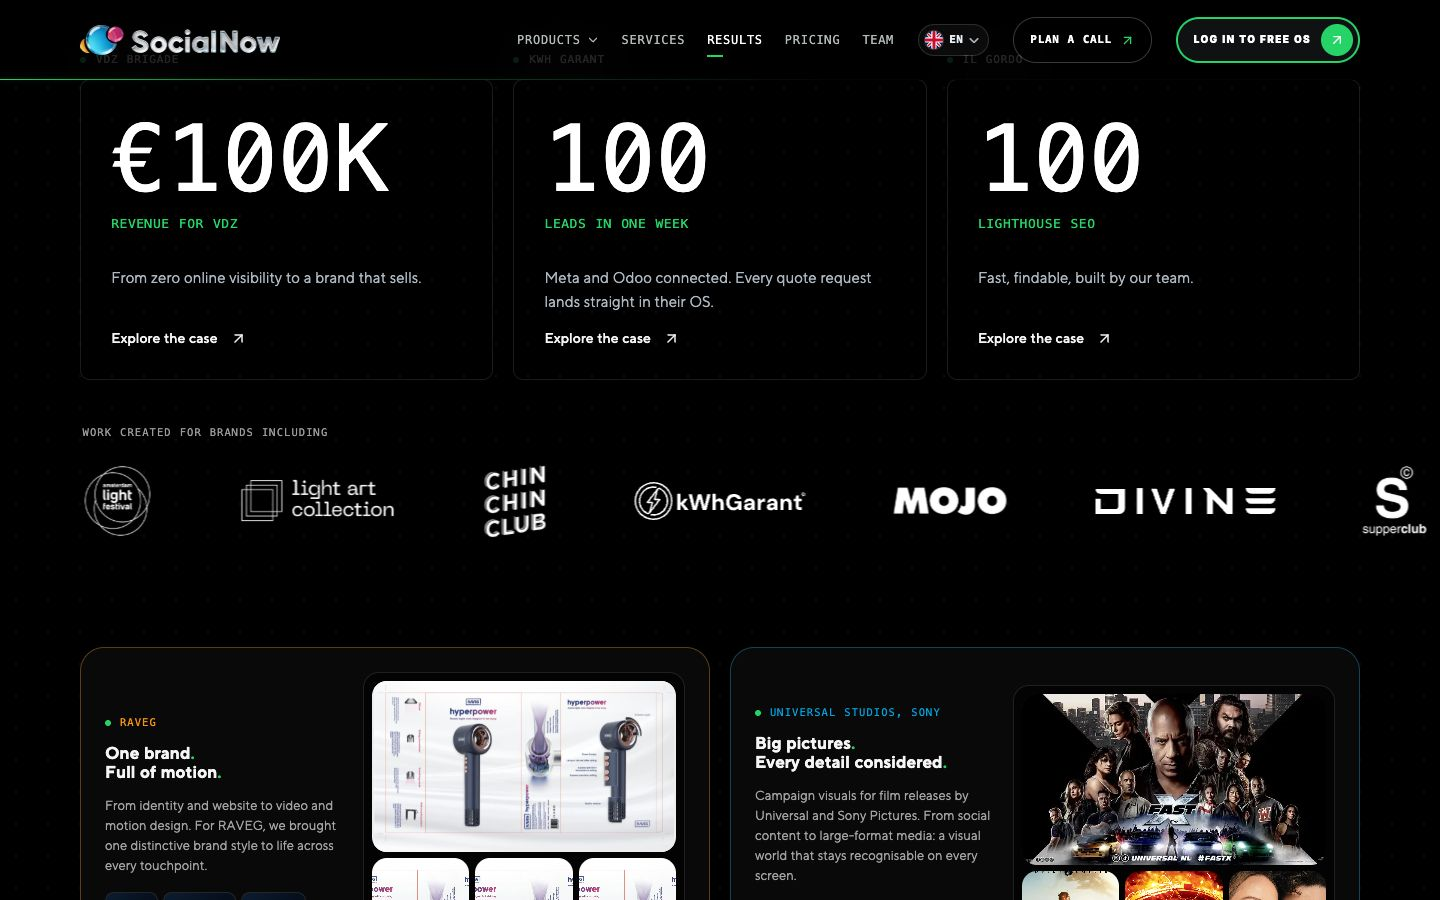
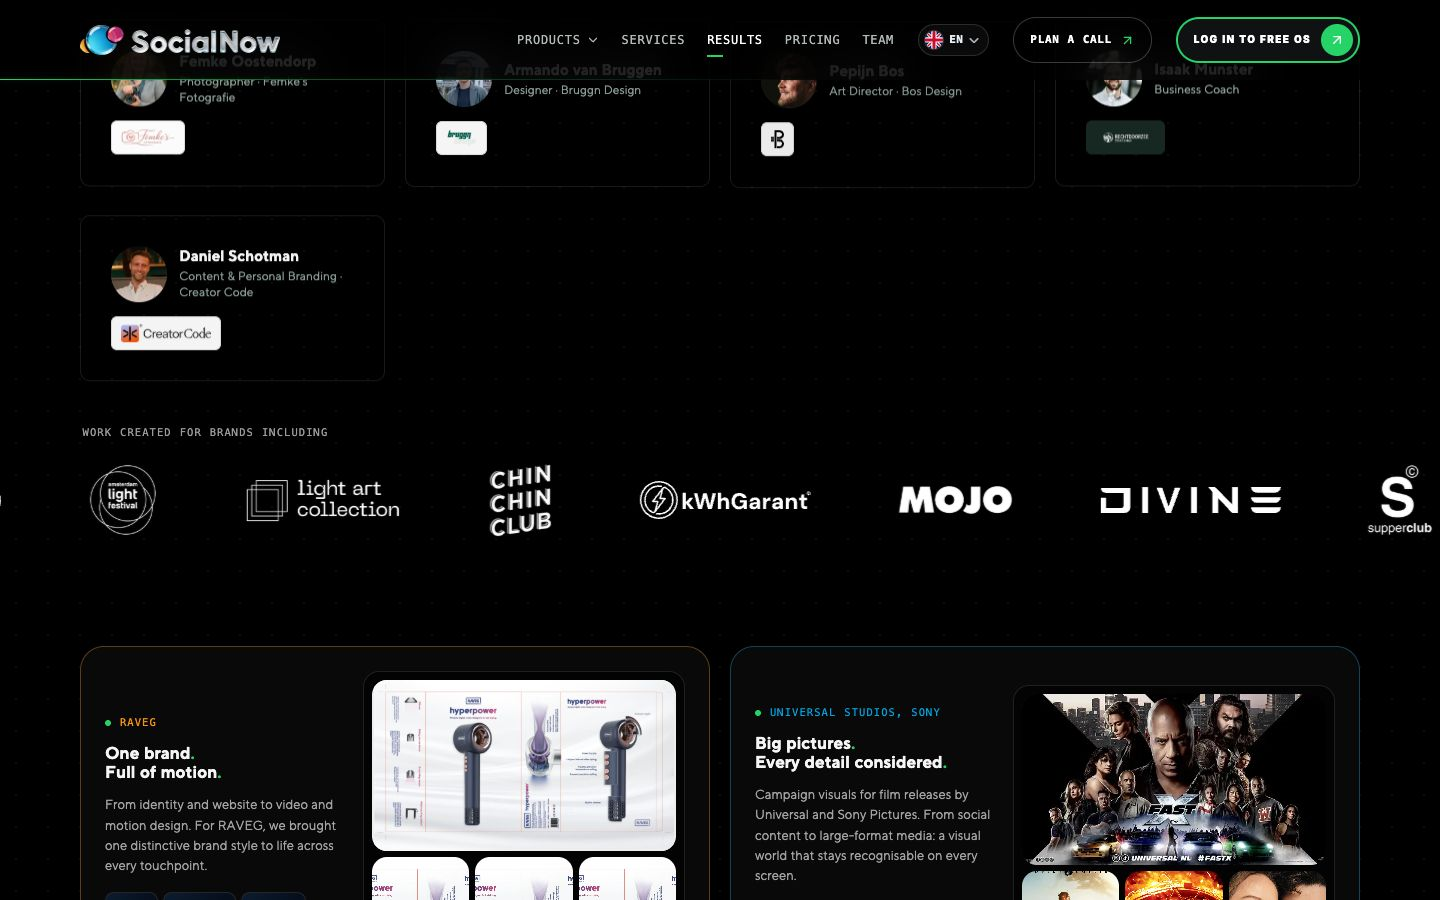
Resultaten: trackrecord van het team onder de cijfers
Marinus: "Neem daarbij ook andere resultaten van mijn team mee." Er staan geen
meetbare resultaten per teamlid in de repo, wel hun trackrecord: partnerReferences
in content.ts en de door Marinus vastgelegde trackrecords (feat/trackrecords-20261007).
Zeventien teamleden met foto, rol en merken; zes logo's van die tak overgenomen.
Wie geen bron heeft, staat er niet in.

diff --git a/proposal/TeamTrackrecord.tsx b/proposal/TeamTrackrecord.tsx
@@ -1,0 +1,78 @@
+import React from "react";
+import { Bento, Tegel } from "./Bento";
+import { people } from "./content";
+import { klein } from "./licht";
+
+// 18 oktober 2026 (Marinus): "Neem daarbij ook andere resultaten van mijn team mee." Er staan geen meetbare resultaten per
+// teamlid in de repo, wel hun trackrecord: de merken waar ze voor werkten en hun eigen bedrijven. Bronnen, letterlijk:
+// partnerReferences in content.ts en de door Marinus vastgelegde trackrecords (tak feat/trackrecords-20261007,
+// docs/team-trackrecords-2026-10-07.md), Daniel via zijn rol in content.ts. Wie daar geen bron heeft, staat er niet in.
+// Daarom heet de rij Trackrecord en niet Resultaten: een bedrijfsreferentie is geen klantresultaat.
+type Merk = { naam: string; logo?: string; donker?: boolean; woordmerk?: string };
+const M = {
+  az: { naam: "AZ", logo: "/images/merken/AZ-LOGO-KLEUR.svg" },
+  universal: { naam: "Universal", logo: "/images/merken/UNDER-ARMOUR-LOGO-1.webp", donker: true },
+  alf: { naam: "Amsterdam Light Festival", logo: "/images/merken/AMSTERDAM-LIGHT-FESTIVAL-LOGO.webp", donker: true },
+  axipoint: { naam: "Axipoint", logo: "/images/merken/axipoint.png" },
+  socialytix: { naam: "Socialytix", logo: "/images/merken/socialytix.png", donker: true },
+  byCarmel: { naam: "By Carmel", logo: "/images/merken/by-carmel.png" },
+  studioSluis: { naam: "Studio Sluis" },
+  goodlife: { naam: "Goodlife Marketing", logo: "/images/merken/goodlife-marketing.png", donker: true },
+  stramark: { naam: "Stramark" },
+  oliverJames: { naam: "Oliver James" },
+  attesso: { naam: "Attesso", woordmerk: "~/attesso" },
+  bytechat: { naam: "ByteChat", logo: "/images/merken/bytechat.svg" },
+  bytevision: { naam: "ByteVision", logo: "/images/merken/bytevision.png" },
+  komen: { naam: "Komen Consultancy", logo: "/images/merken/komen-consultancy.webp" },
+  abnAmro: { naam: "ABN AMRO", logo: "/images/merken/abn-amro.svg" },
+  fincer: { naam: "Fincer", logo: "/images/merken/fincer.png" },
+  femke: { naam: "Femke’s Fotografie", logo: "/images/merken/femkes-fotografie.webp" },
+  bruggn: { naam: "Bruggn Design", logo: "/images/merken/bruggn-design.png" },
+  rechtdoorzee: { naam: "Rechtdoorzee Coaching", logo: "/images/merken/rechtdoorzee.webp", donker: true },
+  pepijn: { naam: "Pepijn Bos", logo: "/images/merken/pepijn-bos.svg" },
+  creatorCode: { naam: "Creator Code", logo: "/images/merken/creator-code.webp" },
+} satisfies Record<string, Merk>;
+
+const TRACKRECORD: Array<[string, Merk[]]> = [
+  ["Marinus Bergsma", [M.az, M.universal, M.alf]],
+  ["Jos Hollenberg", [M.axipoint]],
+  ["Sergio Jovovic", [M.socialytix]],
+  ["Nick van Keulen", [M.goodlife, M.stramark]],
+  ["Steven Goudsblom", [M.abnAmro, M.fincer]],
+  ["Elian Coellar", [M.oliverJames]],
+  ["Sid van Kalken", [M.attesso]],
+  ["Douwe Kramer", [M.attesso, M.bytechat, M.bytevision]],
+  ["Steef Komen", [M.komen]],
+  ["Michelle Yang", [M.komen]],
+  ["Carmel Boon", [M.byCarmel]],
+  ["Sam van der Sluis", [M.studioSluis]],
+  ["Femke Oostendorp", [M.femke]],
+  ["Armando van Bruggen", [M.bruggn]],
+  ["Pepijn Bos", [M.pepijn]],
+  ["Isaak Munster", [M.rechtdoorzee]],
+  ["Daniel Schotman", [M.creatorCode]],
+];
+
+function Merkteken({ merk }: { merk: Merk }) {
+  return <li className={merk.donker ? "is-donker" : undefined}>
+    {merk.logo ? <img src={merk.logo} alt={merk.naam} width="110" height="24" loading="lazy" decoding="async" />
+      : <span className={merk.woordmerk ? "is-woordmerk" : undefined}>{merk.woordmerk ?? merk.naam}</span>}
+  </li>;
+}
+
+export default function TeamTrackrecord() {
+  const rij = TRACKRECORD.flatMap(([naam, merken]) => { const p = people.find((x) => x.name === naam); return p ? [{ p, merken }] : []; });
+  return (
+    <Bento id="team-trackrecord" className="sn-team-trackrecord" label="Trackrecord van ons team" swipe>
+      {rij.map(({ p, merken }) => (
+        <Tegel key={p.name} breed={3} className="sn-trackrecord-tegel">
+          <div className="sn-trackrecord-wie">
+            <img {...klein(p.image, 56, [96, 160], undefined, "20261015-team")} alt={p.name} width="56" height="56" loading="lazy" />
+            <p><b translate="no">{p.name}</b><span>{p.role}</span></p>
+          </div>
+          <ul className="sn-trackrecord-merken" translate="no">{merken.map((m) => <Merkteken key={m.naam} merk={m} />)}</ul>
+        </Tegel>
+      ))}
+    </Bento>
+  );
+}

diff --git a/proposal/resultaten-cijfers.css b/proposal/resultaten-cijfers.css
@@ -12,3 +12,18 @@
   .sn-site .sn-resultaat-groot .sn-resultaat-cijfer { margin-bottom: 14px; }
   .sn-site .sn-resultaat-groot .sn-resultaat-cijfer b { font-size: clamp(52px, 16vw, 72px); }
 }
+/* Trackrecord van ons team (TeamTrackrecord.tsx): foto, naam, rol en de merken als kleine logo's op een neutrale drager,
+   zoals de bedrijfsreferenties op /team (partner-references.css). */
+.sn-site .sn-resultaten-hero .sn-bento.sn-team-trackrecord { padding-top: clamp(36px, 4vw, 56px); }
+.sn-site .sn-trackrecord-tegel { gap: 14px; }
+.sn-site .sn-trackrecord-wie { display: flex; align-items: center; gap: 12px; min-width: 0; }
+.sn-site .sn-trackrecord-wie > img { flex: none; width: 56px; height: 56px; border-radius: 50%; object-fit: cover; object-position: center 26%; background: #0b1920; }
+.sn-site .sn-trackrecord-wie > p { display: grid; gap: 2px; margin: 0; min-width: 0; }
+.sn-site .sn-trackrecord-wie b { color: #fff; font-size: 15px; font-weight: 700; line-height: 1.25; }
+.sn-site .sn-trackrecord-wie span { color: #8da297; font-size: 12px; line-height: 1.35; }
+.sn-site .sn-trackrecord-merken { display: flex; flex-wrap: wrap; gap: 6px; margin: auto 0 0; padding: 0; list-style: none; }
+.sn-site .sn-trackrecord-merken li { display: flex; align-items: center; justify-content: center; min-height: 34px; padding: 6px 9px; border: 1px solid #dfe5e2; border-radius: 6px; background: #fff; color: #20272d; }
+.sn-site .sn-trackrecord-merken li.is-donker { background: #172923; border-color: #172923; color: #fff; }
+.sn-site .sn-trackrecord-merken img { display: block; width: auto; max-width: 96px; height: 18px; object-fit: contain; }
+.sn-site .sn-trackrecord-merken span { font-size: 11px; font-weight: 600; line-height: 1.3; }
+.sn-site .sn-trackrecord-merken span.is-woordmerk { font-family: ui-monospace, Menlo, monospace; font-weight: 500; }

diff --git a/proposal/ResultatenHero.tsx b/proposal/ResultatenHero.tsx
@@ -1,6 +1,7 @@
 import React from "react";
 import { Bento, Tegel } from "./Bento";
 import { ClientLogos, TextLink } from "./ui";
+import TeamTrackrecord from "./TeamTrackrecord";
 
 // 18 oktober 2026 (Marinus): "Bij resultaten graag ook even bovenaan die 100k en de 100 leads in 1 week" en daarna over
 // de oude opening ("Ons werk / Ideeën die vorm hebben gekregen", een groot gat, dan nog een intro): "Dit triggert mij niet
@@ -29,6 +30,8 @@ export default function ResultatenHero() {
           </Tegel>
         ))}
       </Bento>
+      {/* 18 oktober 2026 (Marinus): "Neem daarbij ook andere resultaten van mijn team mee." */}
+      <TeamTrackrecord />
       <ClientLogos />
     </div>
   );
